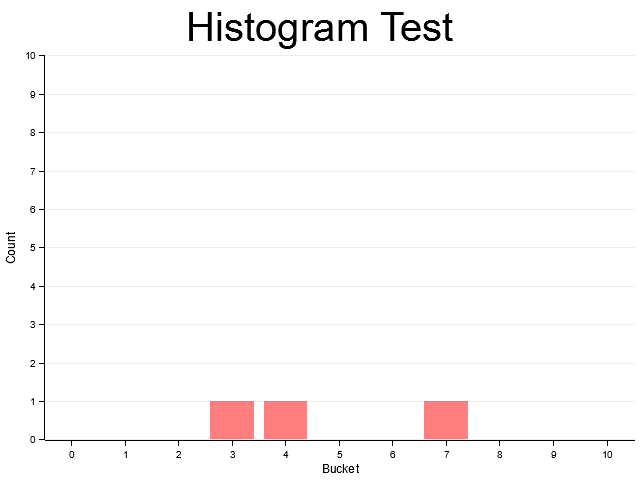
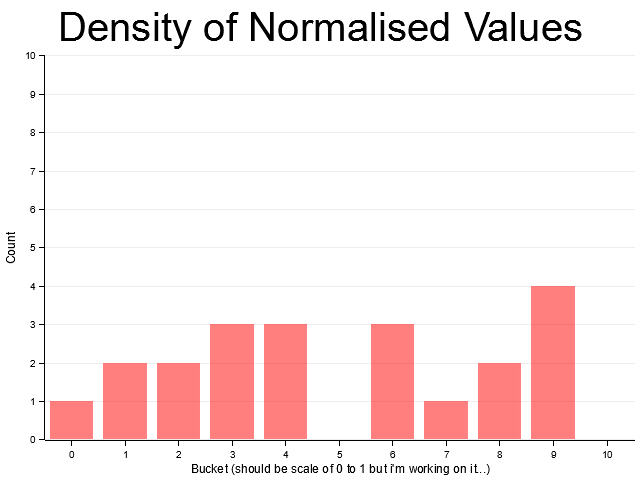
histogram labelled

diff --git a/src/main.rs b/src/main.rs
@@ -54,7 +54,7 @@ fn main() {
         .x_label_area_size(35)
         .y_label_area_size(40)
         .margin(5)
-        .caption("Histogram Test", ("sans-serif", 50.0))
+        .caption("Density of Normalised Values", ("sans-serif", 50.0))
         .build_cartesian_2d((0u32..10u32).into_segmented(), 0u32..10u32).expect("chart assign error");
 
     chart
@@ -62,7 +62,7 @@ fn main() {
         .disable_x_mesh()
         .bold_line_style(WHITE.mix(0.3))
         .y_desc("Count")
-        .x_desc("Bucket")
+        .x_desc("Bucket (should be scale of 0 to 1 but i'm working on it...)")
         .axis_desc_style(("sans-serif", 15))
         .draw().expect("chart config error");
 
